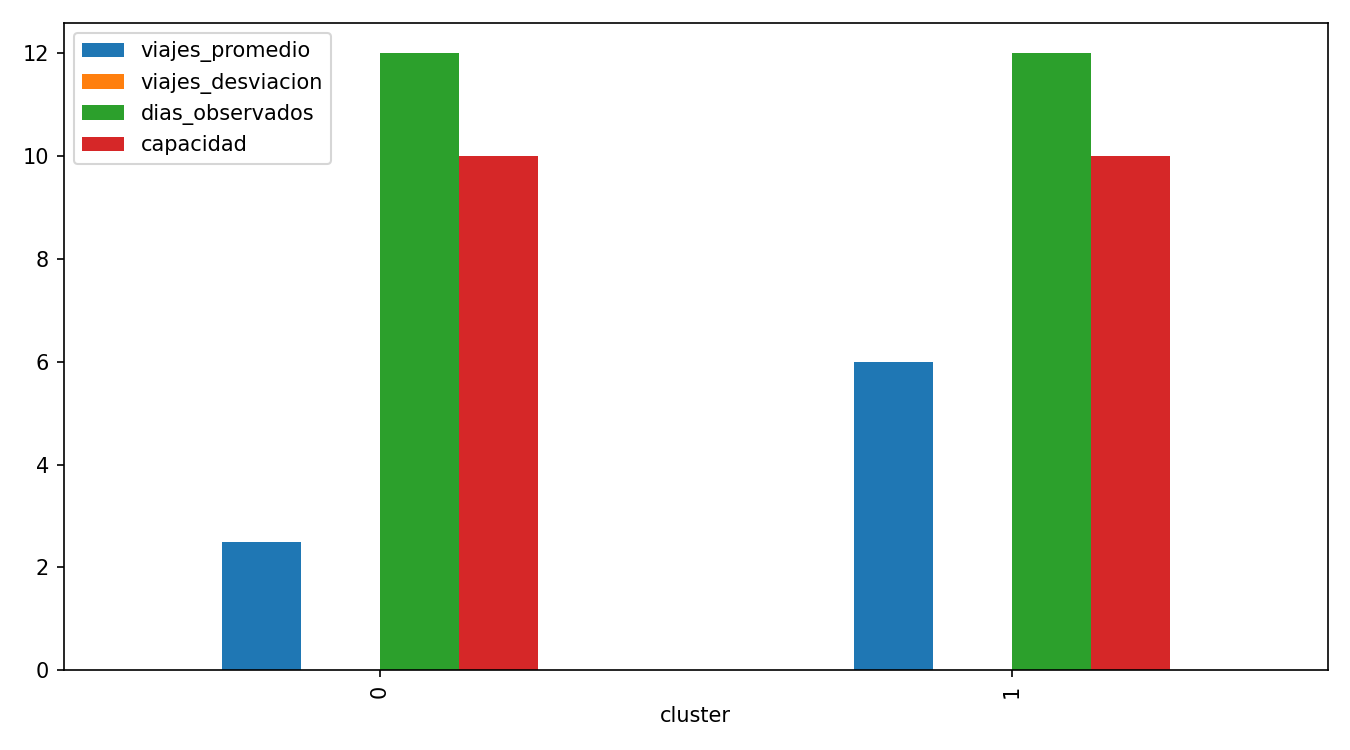
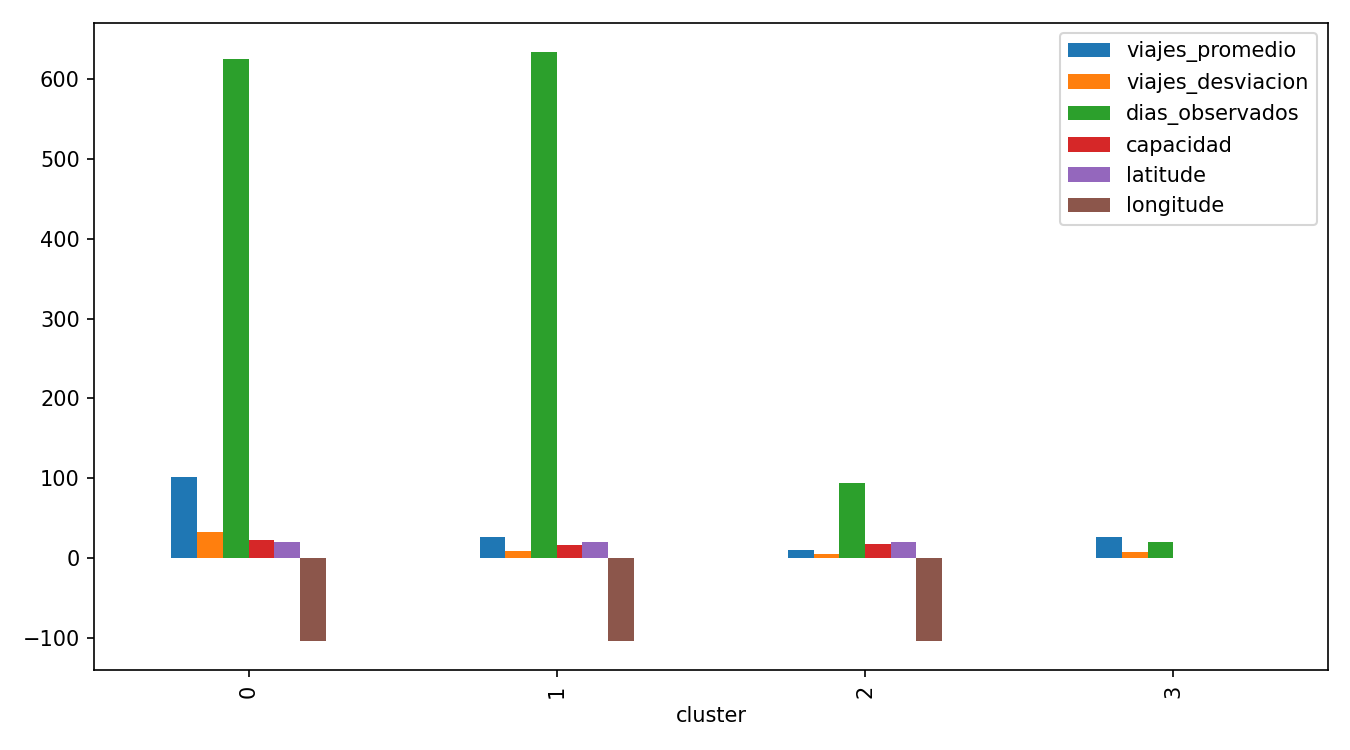
fix: alinear notebook y evidencia con runs corregidos
Actualiza P2 al objetivo futuro y conserva artefactos de los tres baselines.

diff --git a/references/evidencia_mlflow.md b/references/evidencia_mlflow.md
@@ -31,9 +31,9 @@ Los resultados reproducidos el 17 de octubre de 2026 fueron:
 | Pregunta | Resultado |
 |---|---:|
 | P1 MAE | 11.6304 |
-| P2 accuracy | se actualiza al regenerar el run corregido |
-| P2 F1 | se actualiza al regenerar el run corregido |
-| P3 silhouette | 0.4573 |
+| P2 accuracy | 0.6244 |
+| P2 F1 | 0.7688 |
+| P3 silhouette | 0.4982 |
 
 Cada run guarda `seed`, rango de fechas, tag de equipo, pregunta y commit de
 Git. P2 es una etiqueta proxy basada en demanda/capacidad, no inventario real.
